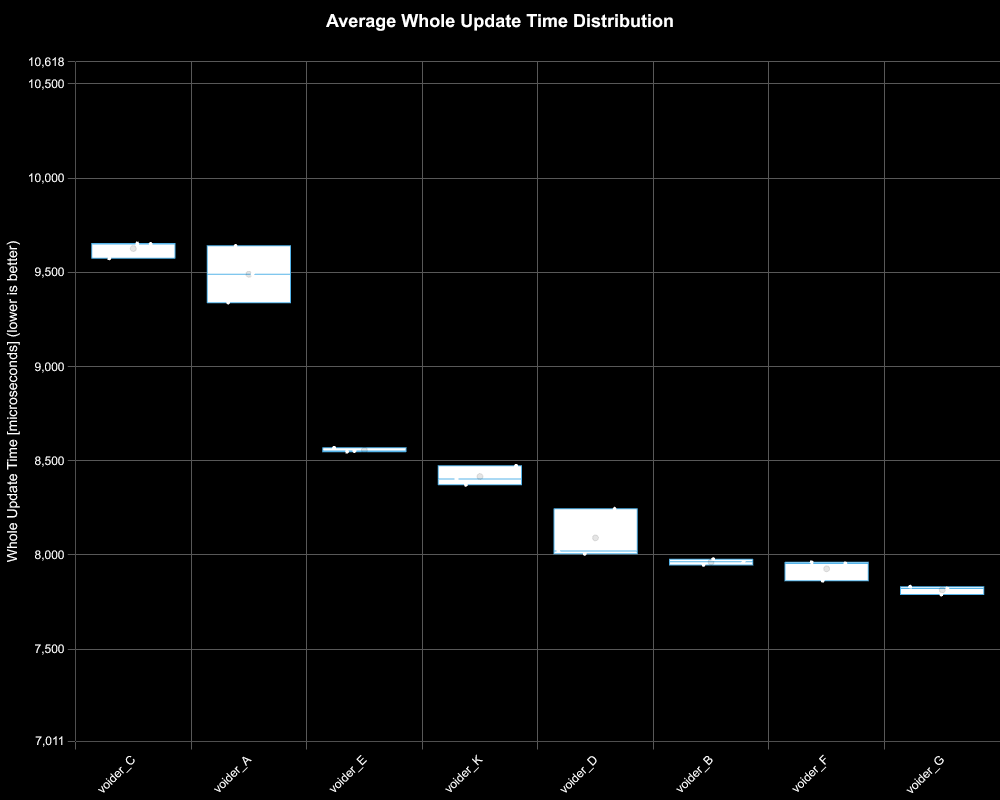
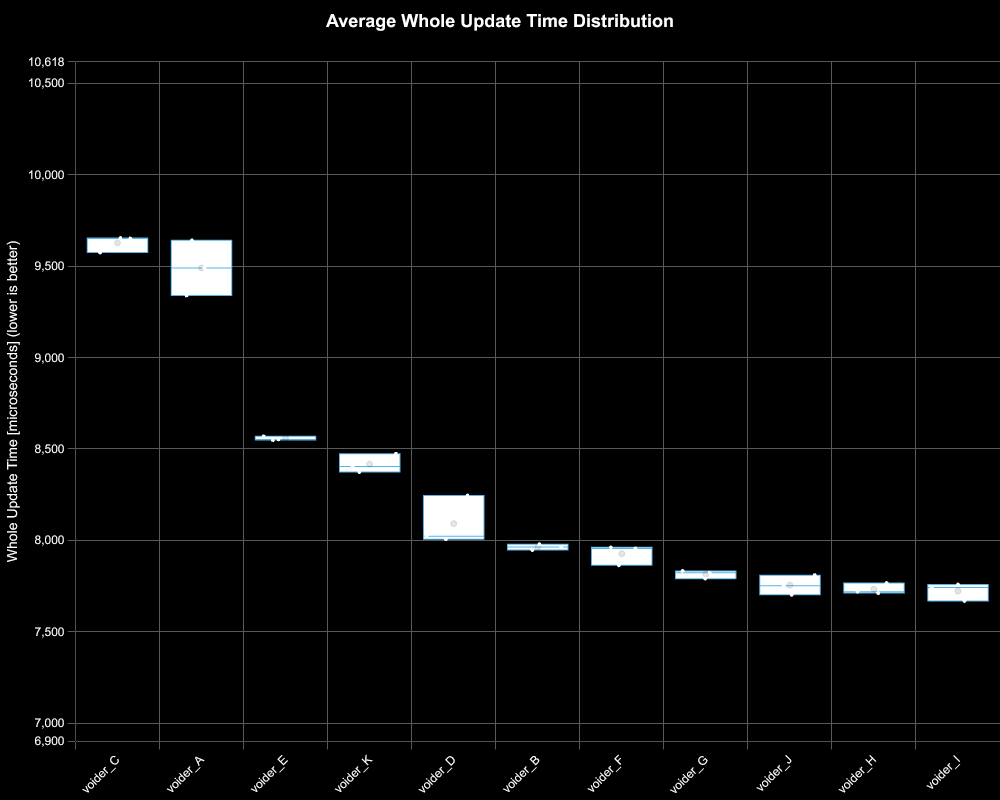
recycler clocking benchmark updated with design from The End and iterations from it

diff --git a/benchmarks/2025-10-14-recycler-clocking/README.md b/benchmarks/2025-10-14-recycler-clocking/README.md
@@ -11,18 +11,21 @@
 
 ### Designs
 
-All Designs: https://factoriobin.com/post/i29kkc
+All Designs: https://factoriobin.com/post/i2sb8g
 
-| Name | Q2 Ore Output | Description                                              | Screenshot                                                                                                           |
-| ---- | ------------- | -------------------------------------------------------- | -------------------------------------------------------------------------------------------------------------------- |
-| A    | 480/s         | latched on / off based on quantity in steel chests       | <a href="design_screenshot/design_A.png"><img src="design_screenshot/design_A.png" alt="design_A" height="100"/></a> |
-| B    | 240/s         | clocked recyclers                                        | <a href="design_screenshot/design_B.png"><img src="design_screenshot/design_B.png" alt="design_B" height="100"/></a> |
-| C    | 240/s         | same as B, no clocking                                   | <a href="design_screenshot/design_C.png"><img src="design_screenshot/design_C.png" alt="design_C" height="100"/></a> |
-| D    | 240/s         | clocked recycler never runs out of input ingredients     | <a href="design_screenshot/design_D.png"><img src="design_screenshot/design_D.png" alt="design_D" height="100"/></a> |
-| E    | 240/s         | exact machine speed (1080/s Q1 voiding)                  | <a href="design_screenshot/design_E.png"><img src="design_screenshot/design_E.png" alt="design_E" height="100"/></a> |
-| F    | 240/s         | same as E with clocked waste inserters (car to recycler) | <a href="design_screenshot/design_F.png"><img src="design_screenshot/design_F.png" alt="design_F" height="100"/></a> |
-| G    | 240/s         | same as B with clocked waste inserters (car to recycler) | <a href="design_screenshot/design_G.png"><img src="design_screenshot/design_G.png" alt="design_G" height="100"/></a> |
-| K    | 284/s         | always active recycler, extra lane of output for 44/s    | <a href="design_screenshot/design_K.png"><img src="design_screenshot/design_K.png" alt="design_K" height="100"/></a> |
+| Name | Q2 Ore Output | Description                                                     | Screenshot                                                                                                           |
+| ---- | ------------- | --------------------------------------------------------------- | -------------------------------------------------------------------------------------------------------------------- |
+| A    | 480/s         | latched on / off based on quantity in steel chests              | <a href="design_screenshot/design_A.png"><img src="design_screenshot/design_A.png" alt="design_A" height="100"/></a> |
+| B    | 240/s         | clocked recyclers                                               | <a href="design_screenshot/design_B.png"><img src="design_screenshot/design_B.png" alt="design_B" height="100"/></a> |
+| C    | 240/s         | same as B, no clocking                                          | <a href="design_screenshot/design_C.png"><img src="design_screenshot/design_C.png" alt="design_C" height="100"/></a> |
+| D    | 240/s         | clocked recycler never runs out of input ingredients            | <a href="design_screenshot/design_D.png"><img src="design_screenshot/design_D.png" alt="design_D" height="100"/></a> |
+| E    | 240/s         | exact machine speed (1080/s Q1 voiding)                         | <a href="design_screenshot/design_E.png"><img src="design_screenshot/design_E.png" alt="design_E" height="100"/></a> |
+| F    | 240/s         | same as E with clocked waste inserters (car to recycler)        | <a href="design_screenshot/design_F.png"><img src="design_screenshot/design_F.png" alt="design_F" height="100"/></a> |
+| G    | 240/s         | same as B with clocked waste inserters (car to recycler)        | <a href="design_screenshot/design_G.png"><img src="design_screenshot/design_G.png" alt="design_G" height="100"/></a> |
+| H    | 480/s         | v2.3.1 from The End but modified to be tileable                 | <a href="design_screenshot/design_H.png"><img src="design_screenshot/design_H.png" alt="design_H" height="100"/></a> |
+| I    | 480/s         | Same as H but larger buffers in cargo wagon                     | <a href="design_screenshot/design_I.png"><img src="design_screenshot/design_I.png" alt="design_I" height="100"/></a> |
+| J    | 480/s         | Same as I but all modulo clocks from the same single base clock | <a href="design_screenshot/design_J.png"><img src="design_screenshot/design_J.png" alt="design_J" height="100"/></a> |
+| K    | 284/s         | always active recycler, extra lane of output for 44/s           | <a href="design_screenshot/design_K.png"><img src="design_screenshot/design_K.png" alt="design_K" height="100"/></a> |
 
 ## Results
 | Metric            | Description                           |
@@ -39,15 +42,19 @@ All Designs: https://factoriobin.com/post/i29kkc
 | **Mean Min (ms)** | Minimum frame time - lower is better  |
 | **Mean Max (ms)** | Maximum frame time - lower is better  |
 
-| Save            | Avg (ms) | Min (ms) | Max (ms) | UPS     | Execution Time (ms) | % Difference from Worst |
-| --------------- | -------- | -------- | -------- | ------- | ------------------- | ----------------------- |
-| bm_ore_voider_C | 9.746    | 7.251    | 20.533   | 102     | 105254              | 0.00%                   |
-| bm_ore_voider_A | 9.488    | 8.921    | 20.995   | 105     | 102472              | 2.73%                   |
-| bm_ore_voider_E | 8.665    | 5.679    | 19.938   | 115     | 93583               | 12.49%                  |
-| bm_ore_voider_K | 8.632    | 7.447    | 18.433   | 115     | 93223               | 12.92%                  |
-| bm_ore_voider_D | 8.174    | 1.881    | 22.337   | 122     | 88275               | 19.26%                  |
-| bm_ore_voider_F | 8.003    | 5.642    | 15.538   | 124     | 86438               | 21.78%                  |
-| bm_ore_voider_B | 7.985    | 1.246    | 16.269   | **125** | 86244               | 22.05%                  |
+| Save            | Avg (ms) | Min (ms) | Max (ms) | UPS | Execution Time (ms) |
+| --------------- | -------- | -------- | -------- | --- | ------------------- |
+| bm_ore_voider_C | 9.630    | 7.203    | 17.851   | 103 | 208007              |
+| bm_ore_voider_A | 9.493    | 8.843    | 18.440   | 105 | 205040              |
+| bm_ore_voider_E | 8.559    | 5.686    | 15.877   | 116 | 184876              |
+| bm_ore_voider_K | 8.419    | 7.400    | 18.148   | 118 | 181863              |
+| bm_ore_voider_D | 8.095    | 1.889    | 22.515   | 123 | 174846              |
+| bm_ore_voider_B | 7.965    | 1.263    | 18.775   | 125 | 172043              |
+| bm_ore_voider_F | 7.930    | 5.742    | 15.086   | 126 | 171286              |
+| bm_ore_voider_G | 7.819    | 1.029    | 18.257   | 127 | 168886              |
+| bm_ore_voider_J | 7.757    | 3.255    | 16.397   | 128 | 167545              |
+| bm_ore_voider_H | 7.735    | 3.682    | 20.902   | 129 | 167084              |
+| bm_ore_voider_I | 7.725    | 3.274    | 17.029   | 129 | 166856              |
 
 ![summary_verbose_metrics_all_designs_table.png](summary_verbose_metrics_all_designs_table.png)
 
@@ -74,10 +81,18 @@ All Designs: https://factoriobin.com/post/i29kkc
 ### Design G
 ![alt text](timeseries_voider_G.png)
 
+### Design H
+![alt text](timeseries_voider_H.png)
+
+### Design I
+![alt text](timeseries_voider_I.png)
+
+### Design J
+![alt text](timeseries_voider_J.png)
+
 ### Design K
 ![alt text](timeseries_voider_K.png)
 
 ## Conclusion
 
-- Voiding more ore batched per tick is better than (minor)
-- rapid starts / stops on recyclers expensive (major)
+TODO

diff --git a/benchmarks/2025-10-14-recycler-clocking/results.md b/benchmarks/2025-10-14-recycler-clocking/results.md
@@ -16,14 +16,9 @@
 
 | Save | Avg (ms) | Min (ms) | Max (ms) | UPS | Execution Time (ms) | % Difference from Worst |
 |------|----------|----------|----------|-----|---------------------| --- |
-| bm_ore_voider_C | 9.630 | 7.203 | 17.851 | 103 | 208007 | 0.00% |
-| bm_ore_voider_A | 9.493 | 8.843 | 18.440 | 105 | 205040 | 1.46% |
-| bm_ore_voider_E | 8.559 | 5.686 | 15.877 | 116 | 184876 | 12.51% |
-| bm_ore_voider_K | 8.419 | 7.400 | 18.148 | 118 | 181863 | 14.38% |
-| bm_ore_voider_D | 8.095 | 1.889 | 22.515 | 123 | 174846 | 18.99% |
-| bm_ore_voider_B | 7.965 | 1.263 | 18.775 | 125 | 172043 | 20.90% |
-| bm_ore_voider_F | 7.930 | 5.742 | 15.086 | 126 | 171286 | 21.44% |
-| bm_ore_voider_G | 7.819 | 1.029 | 18.257 | **127** | 168886 | 23.16% |
+| bm_ore_voider_J | 7.757 | 3.255 | 16.397 | 128 | 167545 | 0.00% |
+| bm_ore_voider_H | 7.735 | 3.682 | 20.902 | **129** | 167084 | 0.27% |
+| bm_ore_voider_I | 7.725 | 3.274 | 17.029 | **129** | 166856 | 0.41% |
 
 ![result_0_chart.svg](result_0_chart.svg)
 
